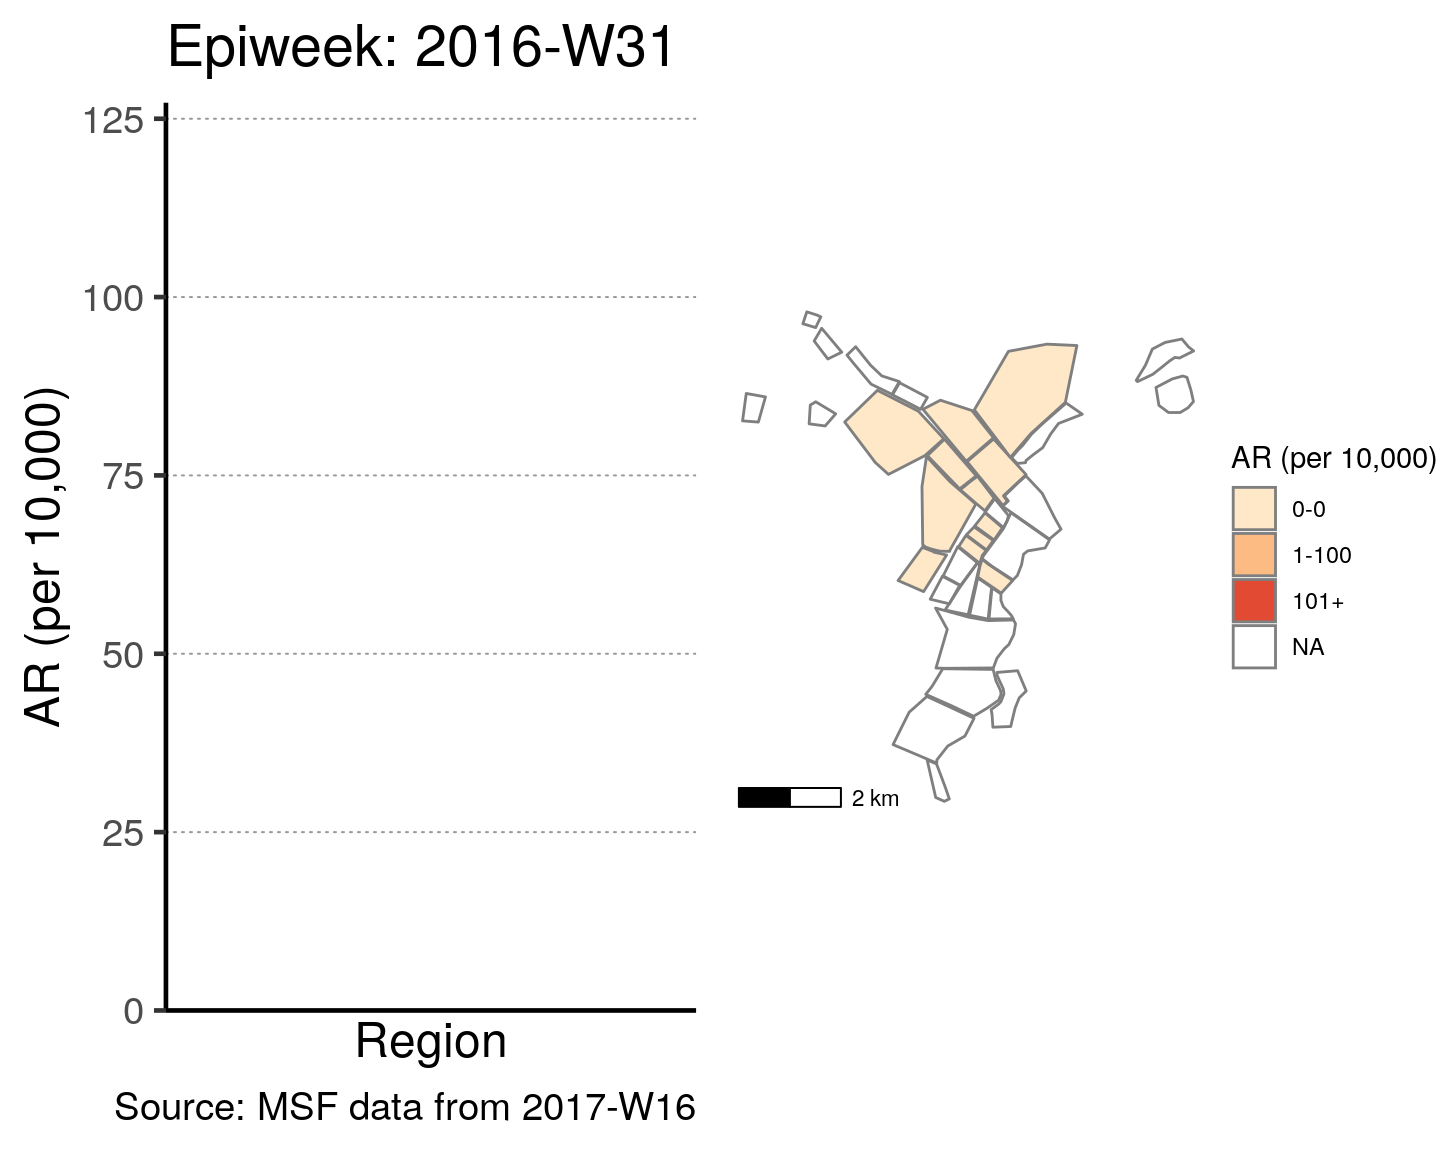
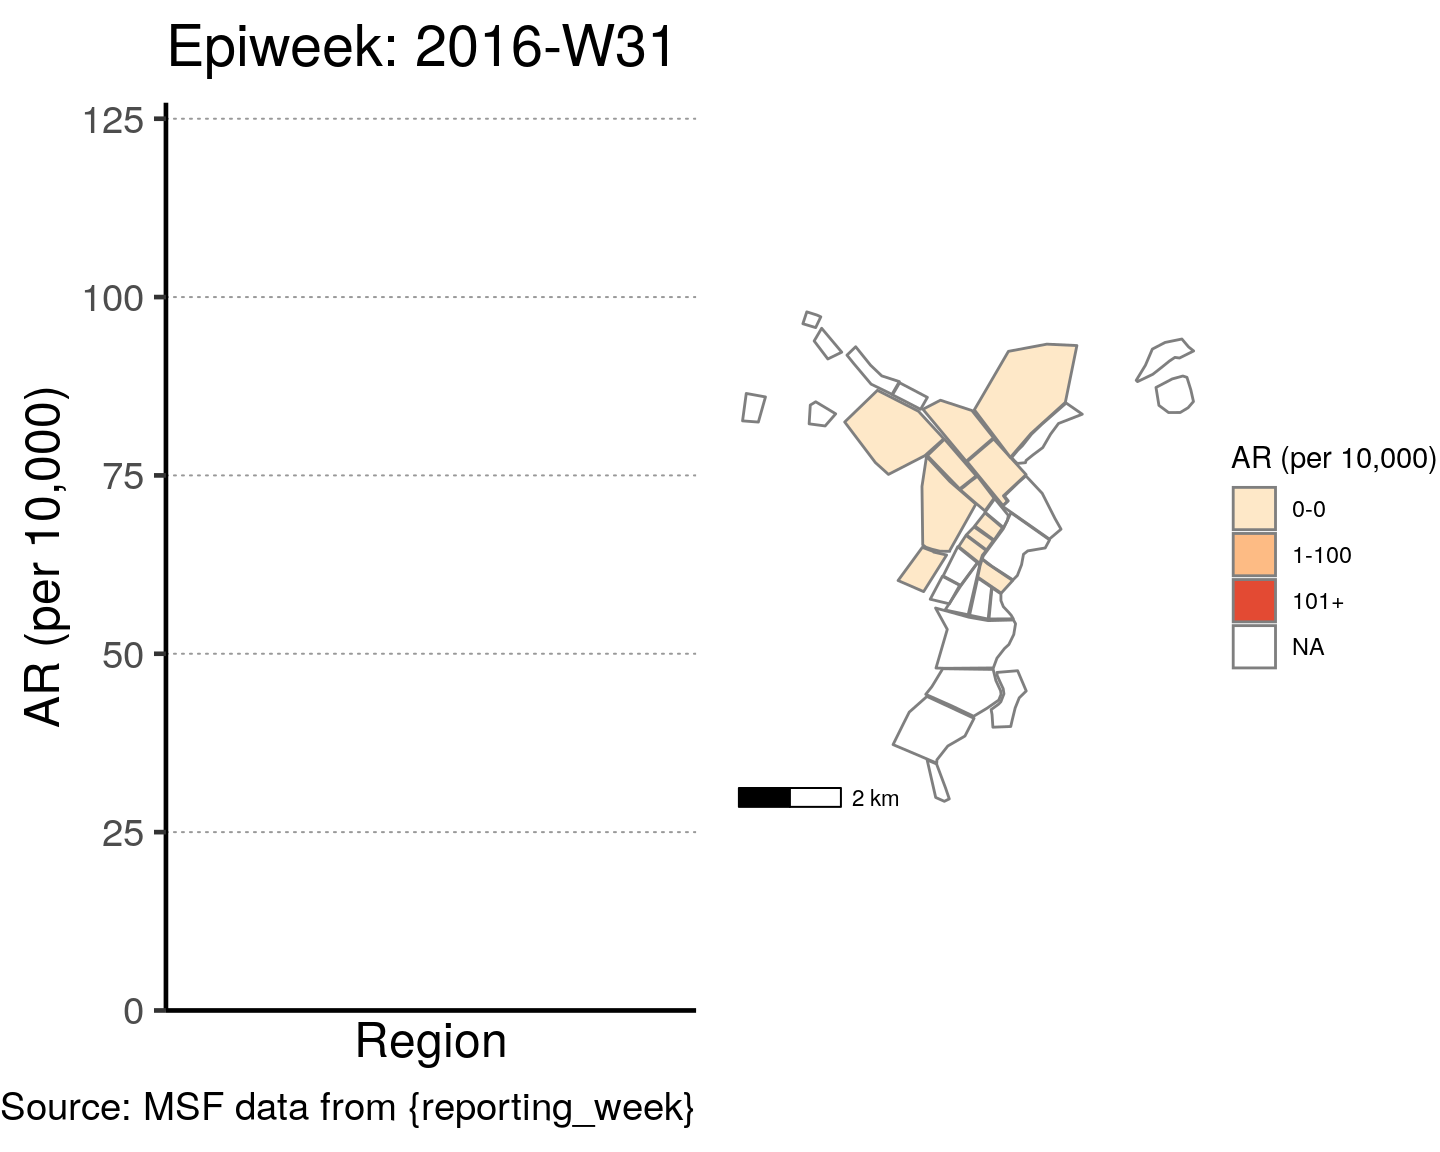
update site

Changed region(s): [[0.0, 0.9375, 0.5, 1.0]]

diff --git a/content/training/R_Basics/Advanced_Functions.html b/content/training/R_Basics/Advanced_Functions.html
@@ -36,9 +36,9 @@ fct_count(linelist_cleaned$sex)</code></pre>
 <pre><code>## # A tibble: 3 x 2
 ##   f         n
 ##   &lt;fct&gt; &lt;int&gt;
-## 1 M       101
+## 1 M        97
 ## 2 F       107
-## 3 U        92</code></pre>
+## 3 U        96</code></pre>
 <p>Now we re-label the values using <code>fct_recode()</code>, also from the package <strong>forcats</strong>.</p>
 <pre class="r"><code># Re-define the labels for the factor variable (pay attention to spelling!)
 linelist_cleaned$sex &lt;- fct_recode(linelist_cleaned$sex, 
@@ -51,9 +51,9 @@ fct_count(linelist_cleaned$sex)</code></pre>
 <pre><code>## # A tibble: 3 x 2
 ##   f           n
 ##   &lt;fct&gt;   &lt;int&gt;
-## 1 Male      101
+## 1 Male       97
 ## 2 Female    107
-## 3 Unknown    92</code></pre>
+## 3 Unknown    96</code></pre>
 <p><strong>To change the <em>arrangement</em> of the levels, use <code>fct_relevel()</code></strong>.</p>
 <p>This will impact the <em>arrangement</em> of the levels as displayed in graphs and tables. Give the name of the factor followed by the new arrangement (pay attention to spelling!).</p>
 <pre class="r"><code># Provide new arrangement of levels
@@ -78,9 +78,9 @@ fct_count(linelist_cleaned$sex)</code></pre>
 ##   f           n
 ##   &lt;fct&gt;   &lt;int&gt;
 ## 1 Female    107
-## 2 Male      101
+## 2 Male       97
 ## 3 Unknown     0
-## 4 &lt;NA&gt;       92</code></pre>
+## 4 &lt;NA&gt;       96</code></pre>
 <blockquote>
 <p>We can see that the value “Unknown” now has a count of zero, but it is still present as a level of the factor variable and will appear in tables and graphs. To remove this level entirely we use <code>fct_drop()</code>, which drops unused levels from a factor.</p>
 </blockquote>
@@ -93,8 +93,8 @@ fct_count(linelist_cleaned$sex)</code></pre>
 ##   f          n
 ##   &lt;fct&gt;  &lt;int&gt;
 ## 1 Female   107
-## 2 Male     101
-## 3 &lt;NA&gt;      92</code></pre>
+## 2 Male      97
+## 3 &lt;NA&gt;      96</code></pre>
 <p>{{% notice tip %}}
 Use the argument <code>only =</code> to drop specific levels: <code>fct_drop(linelist_cleaned$sex, only = &quot;Unknown&quot;)</code>
 {{% /notice %}}</p>
@@ -205,7 +205,7 @@ epicurve_theme &lt;- theme(
 epicurve_labels &lt;- labs(x = &quot;Calendar week&quot;, 
                         y = &quot;Cases (n)&quot;, 
                         title = &quot;Cases by week of onset&quot;,
-                        subtitle = sprintf(&quot;Source: MSF data from %s&quot;, reporting_week)
+                        subtitle = str_glue(&quot;Source: MSF data from {reporting_week}&quot;)
                        ) </code></pre>
 </div>
 </div>
@@ -276,12 +276,12 @@ for (i in unique(cases$epiweek)) {
     scale_y_continuous(expand = c(0, 0), limits = c(0, max_ar)) +  # set origin for axes
     # add labels to axes and below chart
     labs(x = &quot;Region&quot;, y = &quot;AR (per 10,000)&quot;, 
-         captions = paste0(&quot;Source: MSF data from &quot;, reporting_week)) + 
+         captions = str_glue(&quot;Source: MSF data from {reporting_week}&quot;)) + 
     epicurve_theme
   # combine the barplot and map plot into one
   print(
     cowplot::plot_grid(
-      barplot + labs(title = paste0(&quot;Epiweek: &quot;, i)),
+      barplot + labs(title = str_glue(&quot;Epiweek: {i}&quot;)),
       map_plot,
       nrow = 1,
       align = &quot;h&quot;,

diff --git a/content/training/Walk-through/clean_data.html b/content/training/Walk-through/clean_data.html
@@ -299,9 +299,9 @@ linelist_cleaned &lt;- linelist_cleaned %&gt;%
 <p>And finally, if desired you can <strong>export the cleaned dataset</strong> for other purposes.</p>
 <p>The command <code>export()</code> is also from the package <strong>rio</strong>.</p>
 <p>First, the object that you want to export is named (<code>linelist_cleaned</code>).</p>
-<p>Then, the function <code>paste0()</code> creates the name for the new file by combining “AmTiman_linelist_cleaned_” with the current date and finally the extention “.xlsx”. Don’t be confused - this is equivalen of writing <code>rio::export(linelist_cleaned, &quot;AmTiman_linelist_cleaned_2019-08-24.xlsx&quot;)</code>, but using <code>paste0()</code> and <code>Sys.Date()</code> means the current date will always be used automatically.</p>
+<p>Then, the function <code>str_glue()</code> creates the name for the new file by combining “AmTiman_linelist_cleaned_” with the current date and finally the extention “.xlsx”. Don’t be confused - this is equivalen of writing <code>rio::export(linelist_cleaned, &quot;AmTiman_linelist_cleaned_2019-08-24.xlsx&quot;)</code>, but using <code>str_glue()</code> and <code>Sys.Date()</code> means the current date will always be used automatically.</p>
 <pre class="r"><code>## OPTIONAL: save your cleaned dataset! 
 ## put the current date in the name so you know!
-rio::export(linelist_cleaned, paste0(&quot;AmTiman_linelist_cleaned_&quot;, Sys.Date(), &quot;.xlsx&quot;))</code></pre>
+rio::export(linelist_cleaned, str_glue(&quot;AmTiman_linelist_cleaned_{Sys.Date()}.xlsx&quot;))</code></pre>
 </div>
 </div>

diff --git a/content/training/Walk-through/place_analyses.html b/content/training/Walk-through/place_analyses.html
@@ -2239,7 +2239,7 @@ ggplot(ar_region, aes(x = reorder(Region, `AR (per 10,000)`),
   scale_y_continuous(expand = c(0,0)) +  # set origin for axes
   # add labels to axes and below chart
   labs(x = &quot;Region&quot;, y = &quot;AR (per 10,000)&quot;, 
-       captions = paste0(&quot;Source: MSF data from &quot;, reporting_week)) + 
+       captions = str_glue(&quot;Source: MSF data from {reporting_week}&quot;)) + 
   epicurve_theme</code></pre>
 <p><img src="/training/Walk-through/place_analyses_files/figure-html/bar_attack_rate_by_region-1.png" width="720" /></p>
 <p>You could also <strong>table mortality rate by region</strong>. A few things to note:</p>
@@ -2564,14 +2564,14 @@ for (i in unique(cases$epiweek)) {
     scale_y_continuous(expand = c(0, 0), limits = c(0, max_ar)) +  # set origin for axes
     # add labels to axes and below chart
     labs(x = &quot;Region&quot;, y = &quot;AR (per 10,000)&quot;, 
-         captions = paste0(&quot;Source: MSF data from &quot;, reporting_week)) + 
+         captions = (&quot;Source: MSF data from {reporting_week}&quot;)) + 
     epicurve_theme
   
   
   # combine the barplot and map plot into one for epiweek &quot;i&quot;
   print(
     cowplot::plot_grid(
-      barplot + labs(title = paste0(&quot;Epiweek: &quot;, i)),
+      barplot + labs(title = str_glue(&quot;Epiweek: {i}&quot;)),
       map_plot,
       nrow = 1,
       align = &quot;h&quot;,

diff --git a/content/training/Walk-through/time_analyses.html b/content/training/Walk-through/time_analyses.html
@@ -32,7 +32,7 @@ epicurve_theme &lt;- theme(
 epicurve_labels &lt;- labs(x = &quot;Calendar week&quot;, 
                         y = &quot;Cases (n)&quot;, 
                         title = &quot;Cases by week of onset&quot;,
-                        subtitle = sprintf(&quot;Source: MSF data from %s&quot;, reporting_week)
+                        subtitle = str_glue(&quot;Source: MSF data from {reporting_week}&quot;)
                        ) </code></pre>
 <p><strong>In this next part of the chunk, the plot of the epidemic curve is finalized and displayed.</strong></p>
 <p>{{% notice tip %}}
